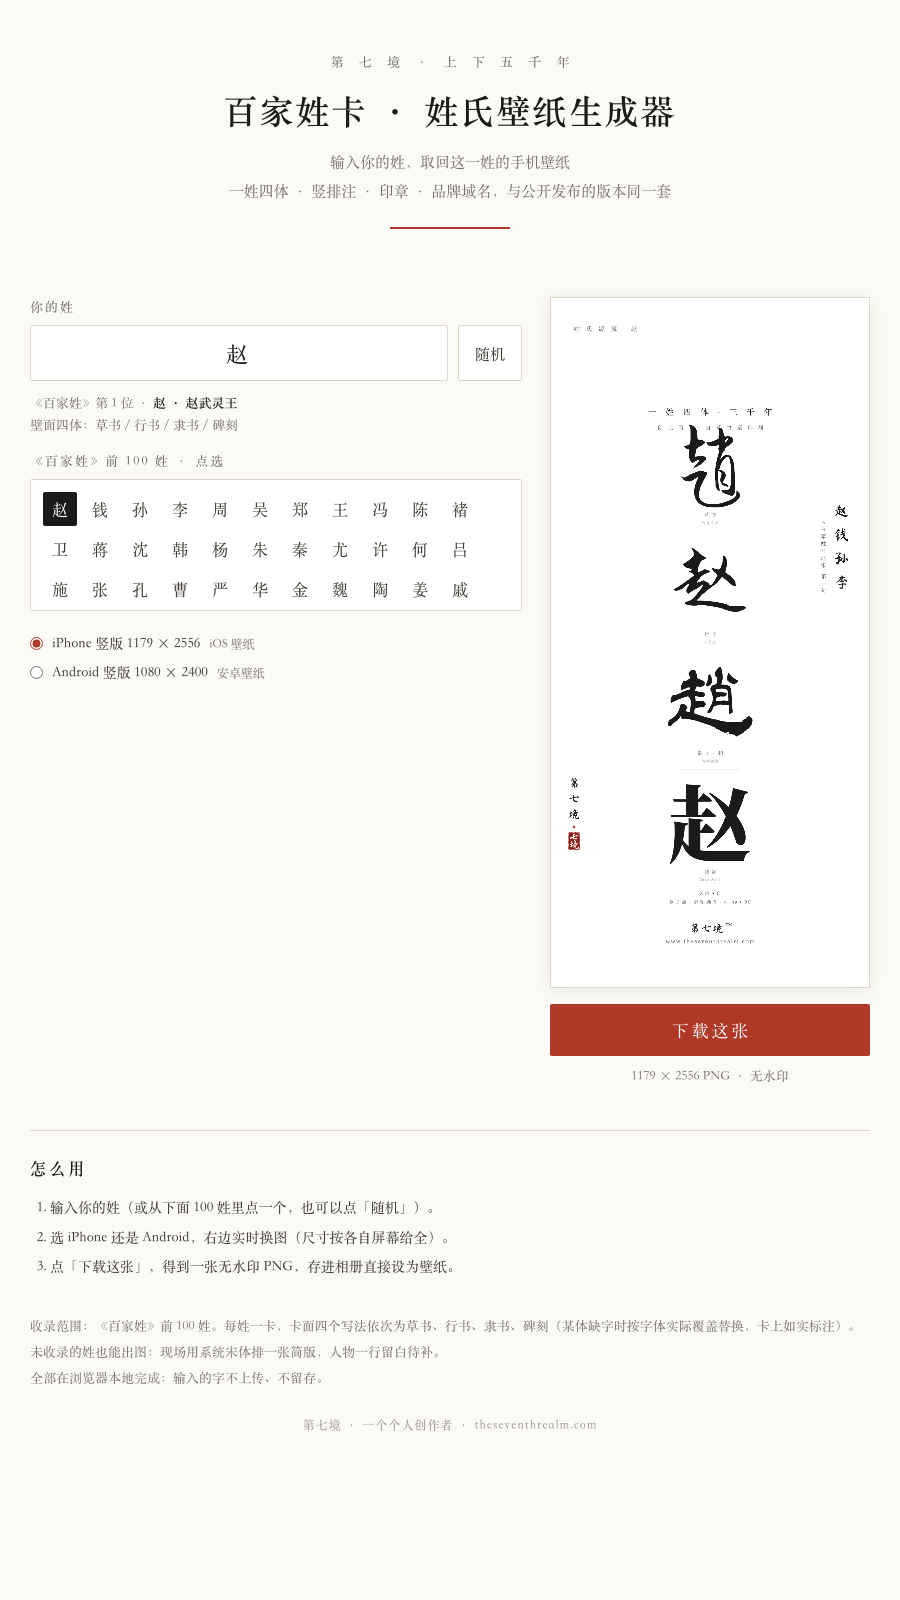
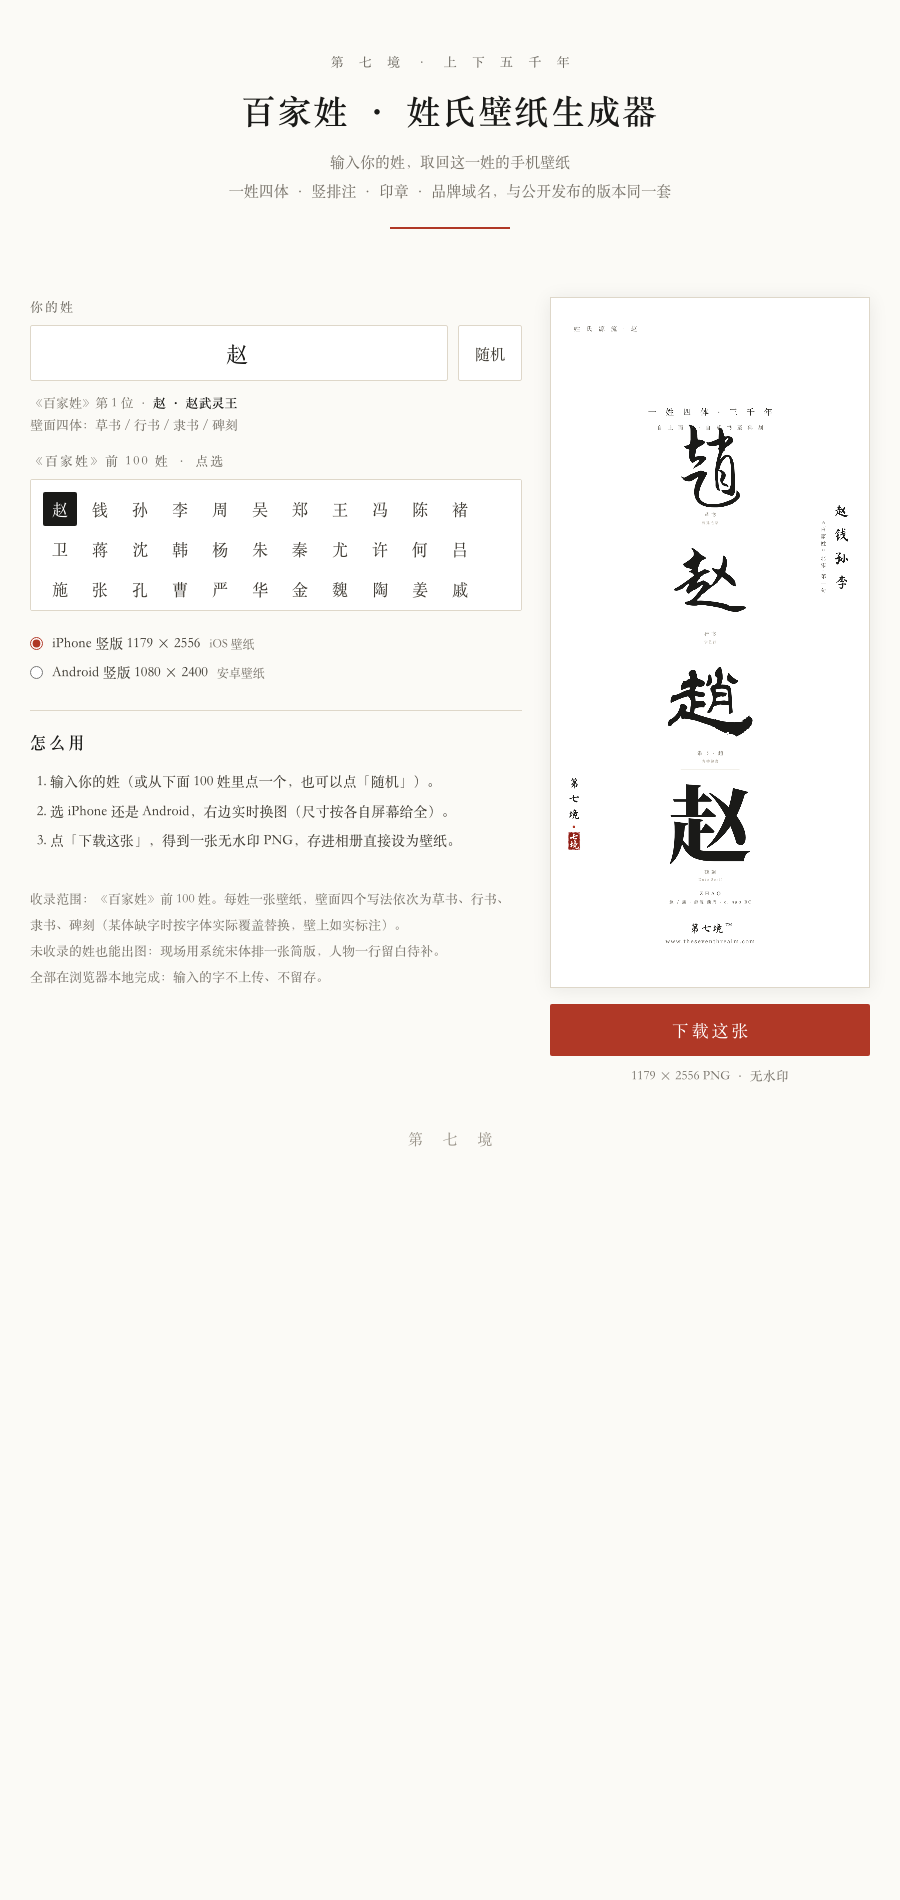
姓氏壁纸应用：说明文字移到壁纸左侧，页脚只留品牌

diff --git a/02-商品/06-姓氏线/应用-百家姓卡/index.html b/02-商品/06-姓氏线/应用-百家姓卡/index.html
@@ -59,11 +59,11 @@ canvas{width:100%;max-width:320px;display:block;margin:0 auto;
 .btn-main:hover{background:#982e1f}
 .cap{text-align:center;font-size:13px;color:var(--light);margin-top:10px}
 
-.how{margin-top:46px;border-top:1px solid var(--hair);padding-top:26px}
+.how{margin-top:28px;border-top:1px solid var(--hair);padding-top:20px}
 .how h2{font-size:16px;letter-spacing:3px;margin-bottom:14px}
 .how ol{padding-left:20px;font-size:14px;color:var(--dark);line-height:2.1}
 .note{margin-top:30px;font-size:13px;color:var(--light);line-height:2}
-footer{margin-top:26px;text-align:center;font-size:12px;color:#9a948a;letter-spacing:1px}
+footer{margin-top:44px;text-align:center;font-size:15px;color:#9a948a;letter-spacing:8px;text-indent:8px}
 @media(max-width:720px){.cols{flex-direction:column}.stage{order:-1}}
 </style>
 </head>
@@ -93,6 +93,20 @@ footer{margin-top:26px;text-align:center;font-size:12px;color:#9a948a;letter-spa
       <label><input type="radio" name="fmt" value="ios" checked>iPhone 竖版 1179 × 2556<span class="sm">iOS 壁纸</span></label>
       <label><input type="radio" name="fmt" value="and">Android 竖版 1080 × 2400<span class="sm">安卓壁纸</span></label>
     </div>
+
+    <div class="how">
+      <h2>怎么用</h2>
+      <ol>
+        <li>输入你的姓（或从下面 100 姓里点一个，也可以点「随机」）。</li>
+        <li>选 iPhone 还是 Android，右边实时换图（尺寸按各自屏幕给全）。</li>
+        <li>点「下载这张」，得到一张无水印 PNG，存进相册直接设为壁纸。</li>
+      </ol>
+      <div class="note">
+        收录范围：《百家姓》前 100 姓。每姓一张壁纸，壁面四个写法依次为草书、行书、隶书、碑刻（某体缺字时按字体实际覆盖替换，壁上如实标注）。<br>
+        未收录的姓也能出图：现场用系统宋体排一张简版，人物一行留白待补。<br>
+        全部在浏览器本地完成：输入的字不上传、不留存。
+      </div>
+    </div>
   </div>
 
   <div class="stage">
@@ -102,21 +116,7 @@ footer{margin-top:26px;text-align:center;font-size:12px;color:#9a948a;letter-spa
   </div>
 </div>
 
-<div class="how">
-  <h2>怎么用</h2>
-  <ol>
-    <li>输入你的姓（或从下面 100 姓里点一个，也可以点「随机」）。</li>
-    <li>选 iPhone 还是 Android，右边实时换图（尺寸按各自屏幕给全）。</li>
-    <li>点「下载这张」，得到一张无水印 PNG，存进相册直接设为壁纸。</li>
-  </ol>
-  <div class="note">
-    收录范围：《百家姓》前 100 姓。每姓一卡，卡面四个写法依次为草书、行书、隶书、碑刻（某体缺字时按字体实际覆盖替换，卡上如实标注）。<br>
-    未收录的姓也能出图：现场用系统宋体排一张简版，人物一行留白待补。<br>
-    全部在浏览器本地完成：输入的字不上传、不留存。
-  </div>
-</div>
-
-<footer>第七境 · 一个个人创作者 · theseventhrealm.com</footer>
+<footer>第 七 境</footer>
 </div>
 
 <script>

diff --git a/11-运营/reports/MEMORY快照-202610.md b/11-运营/reports/MEMORY快照-202610.md
@@ -1,6 +1,6 @@
 # 第七境 · MEMORY 快照（2026-10）
 > 本文件由 `11-运营/scripts/export-memory-snapshot.py` **自动生成**，请勿手改（下轮会覆盖）。
-> 生成时间：2026-10-23 22:19　|　源：`.workbuddy/memory/MEMORY.md`　|　不含日志（--full 可加）
+> 生成时间：2026-10-23 22:22　|　源：`.workbuddy/memory/MEMORY.md`　|　不含日志（--full 可加）
 
 ---
 
